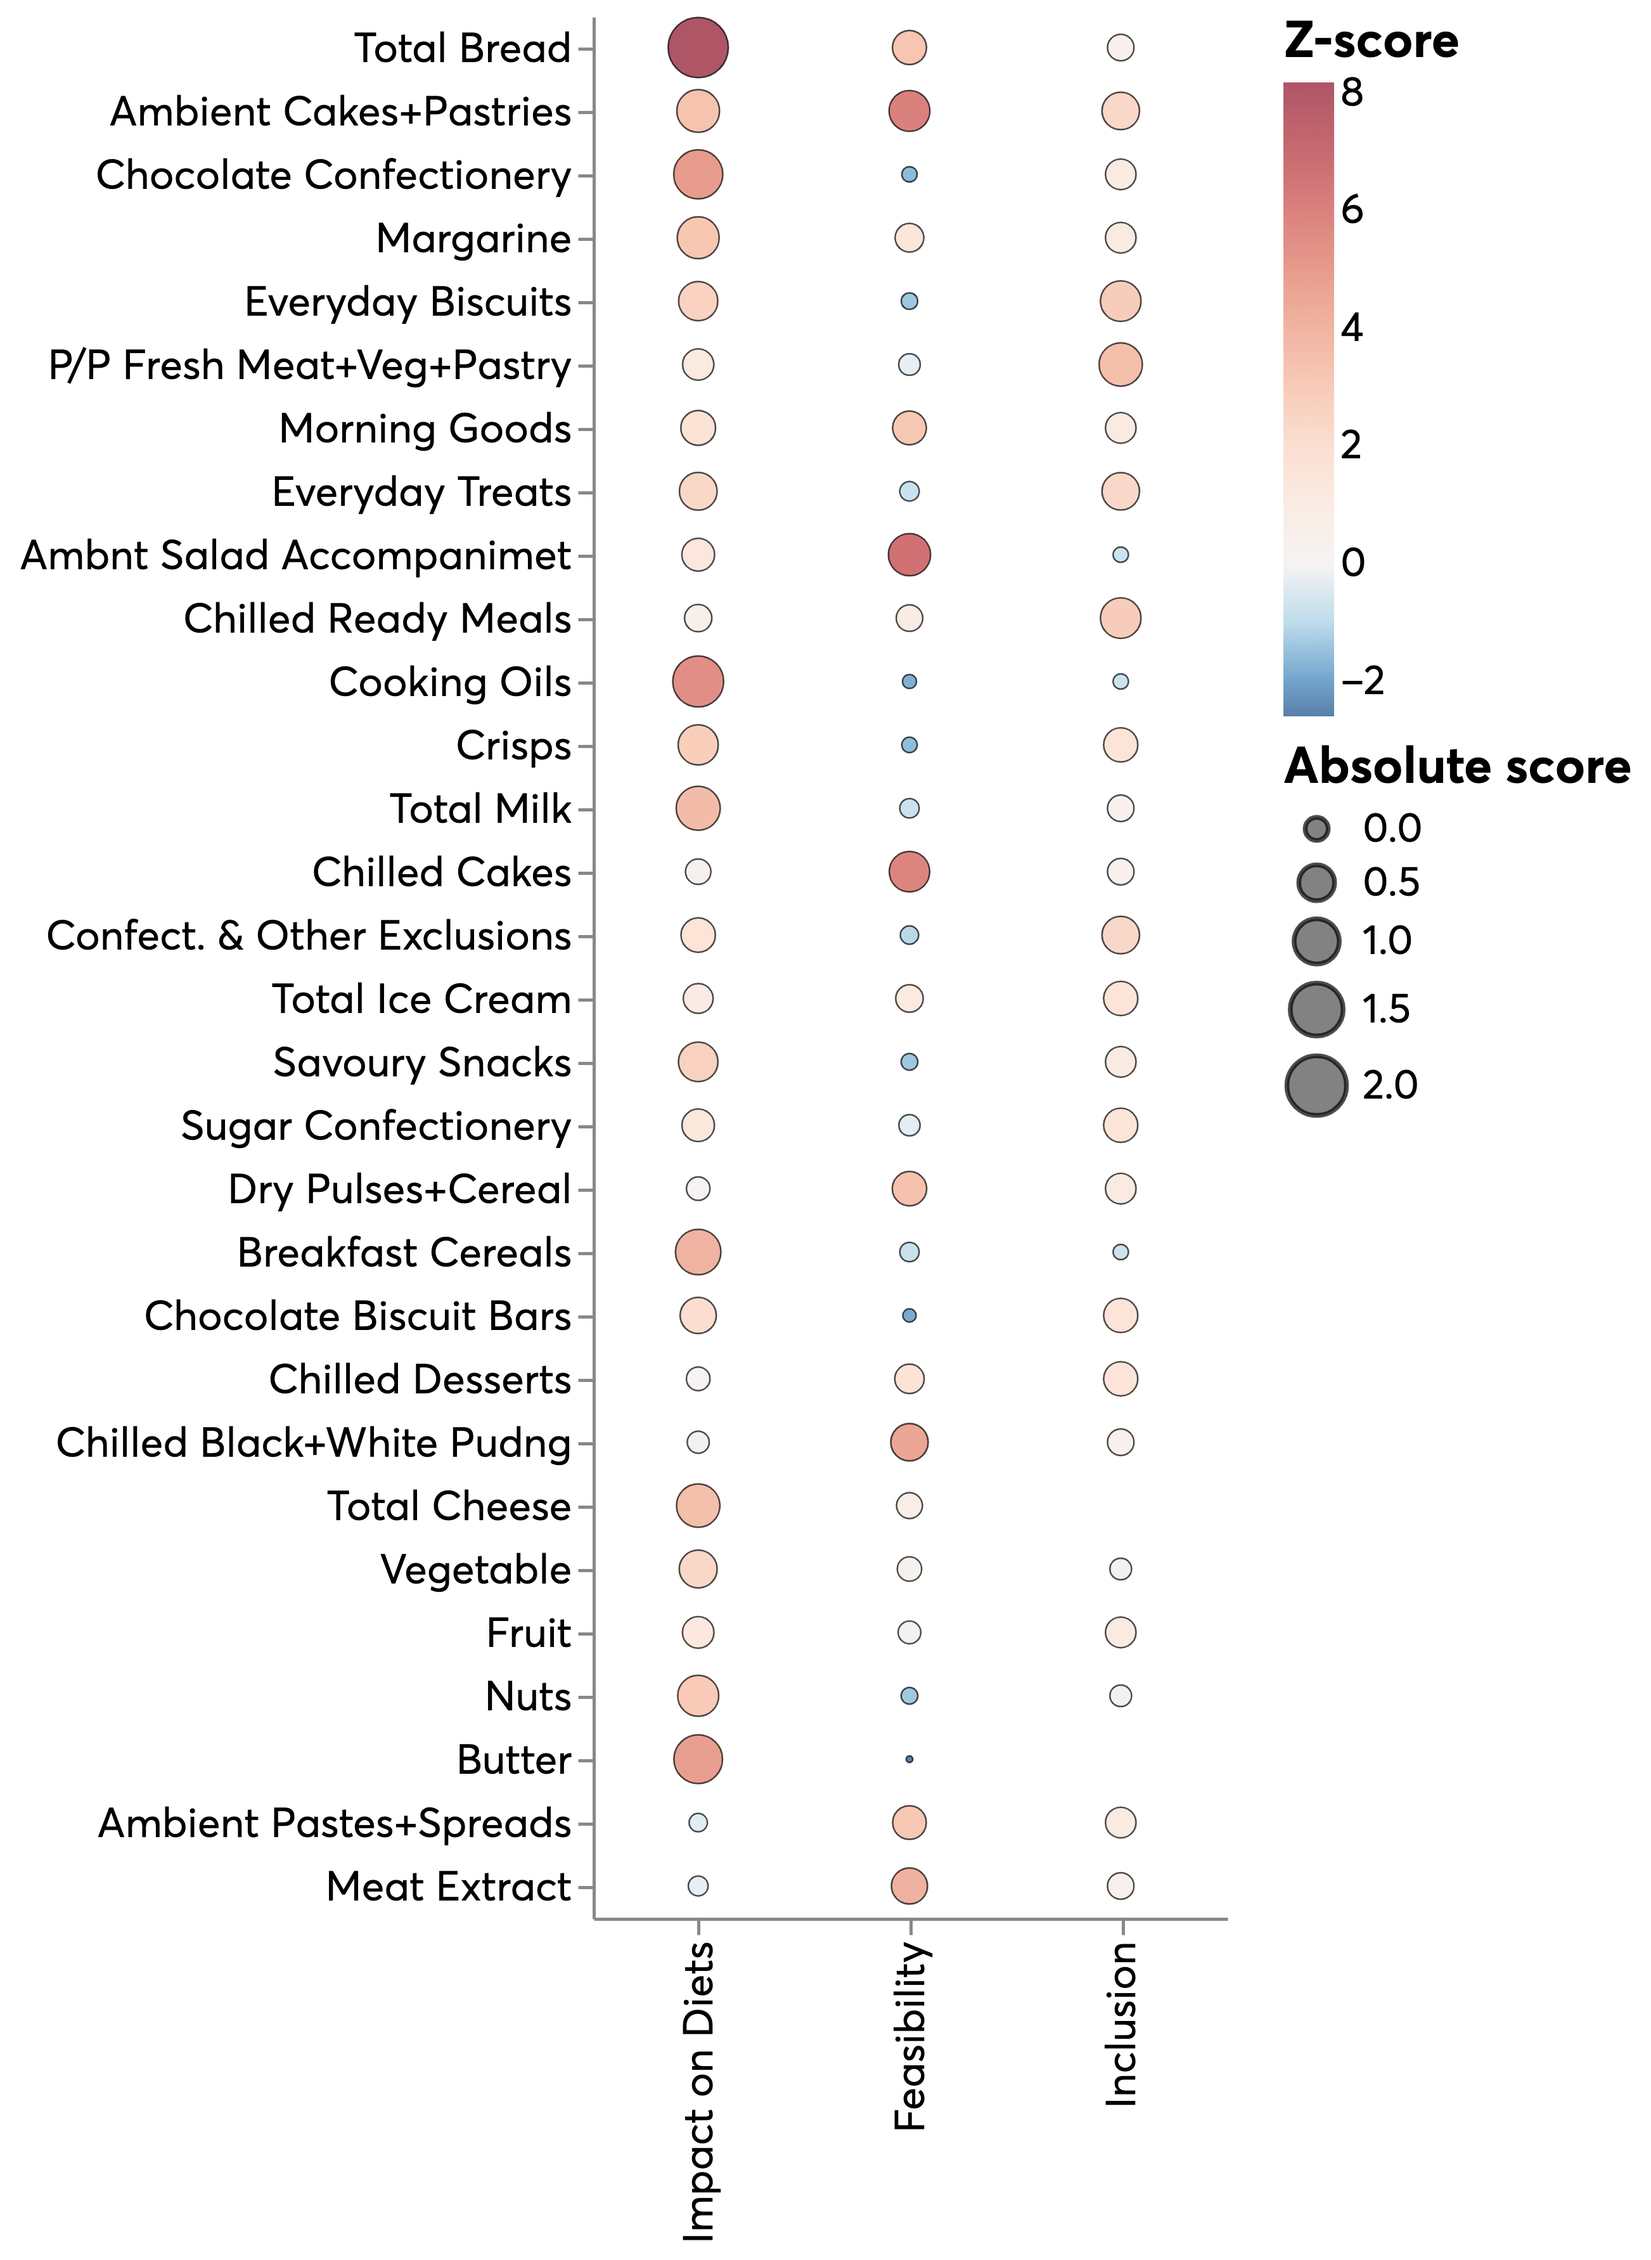
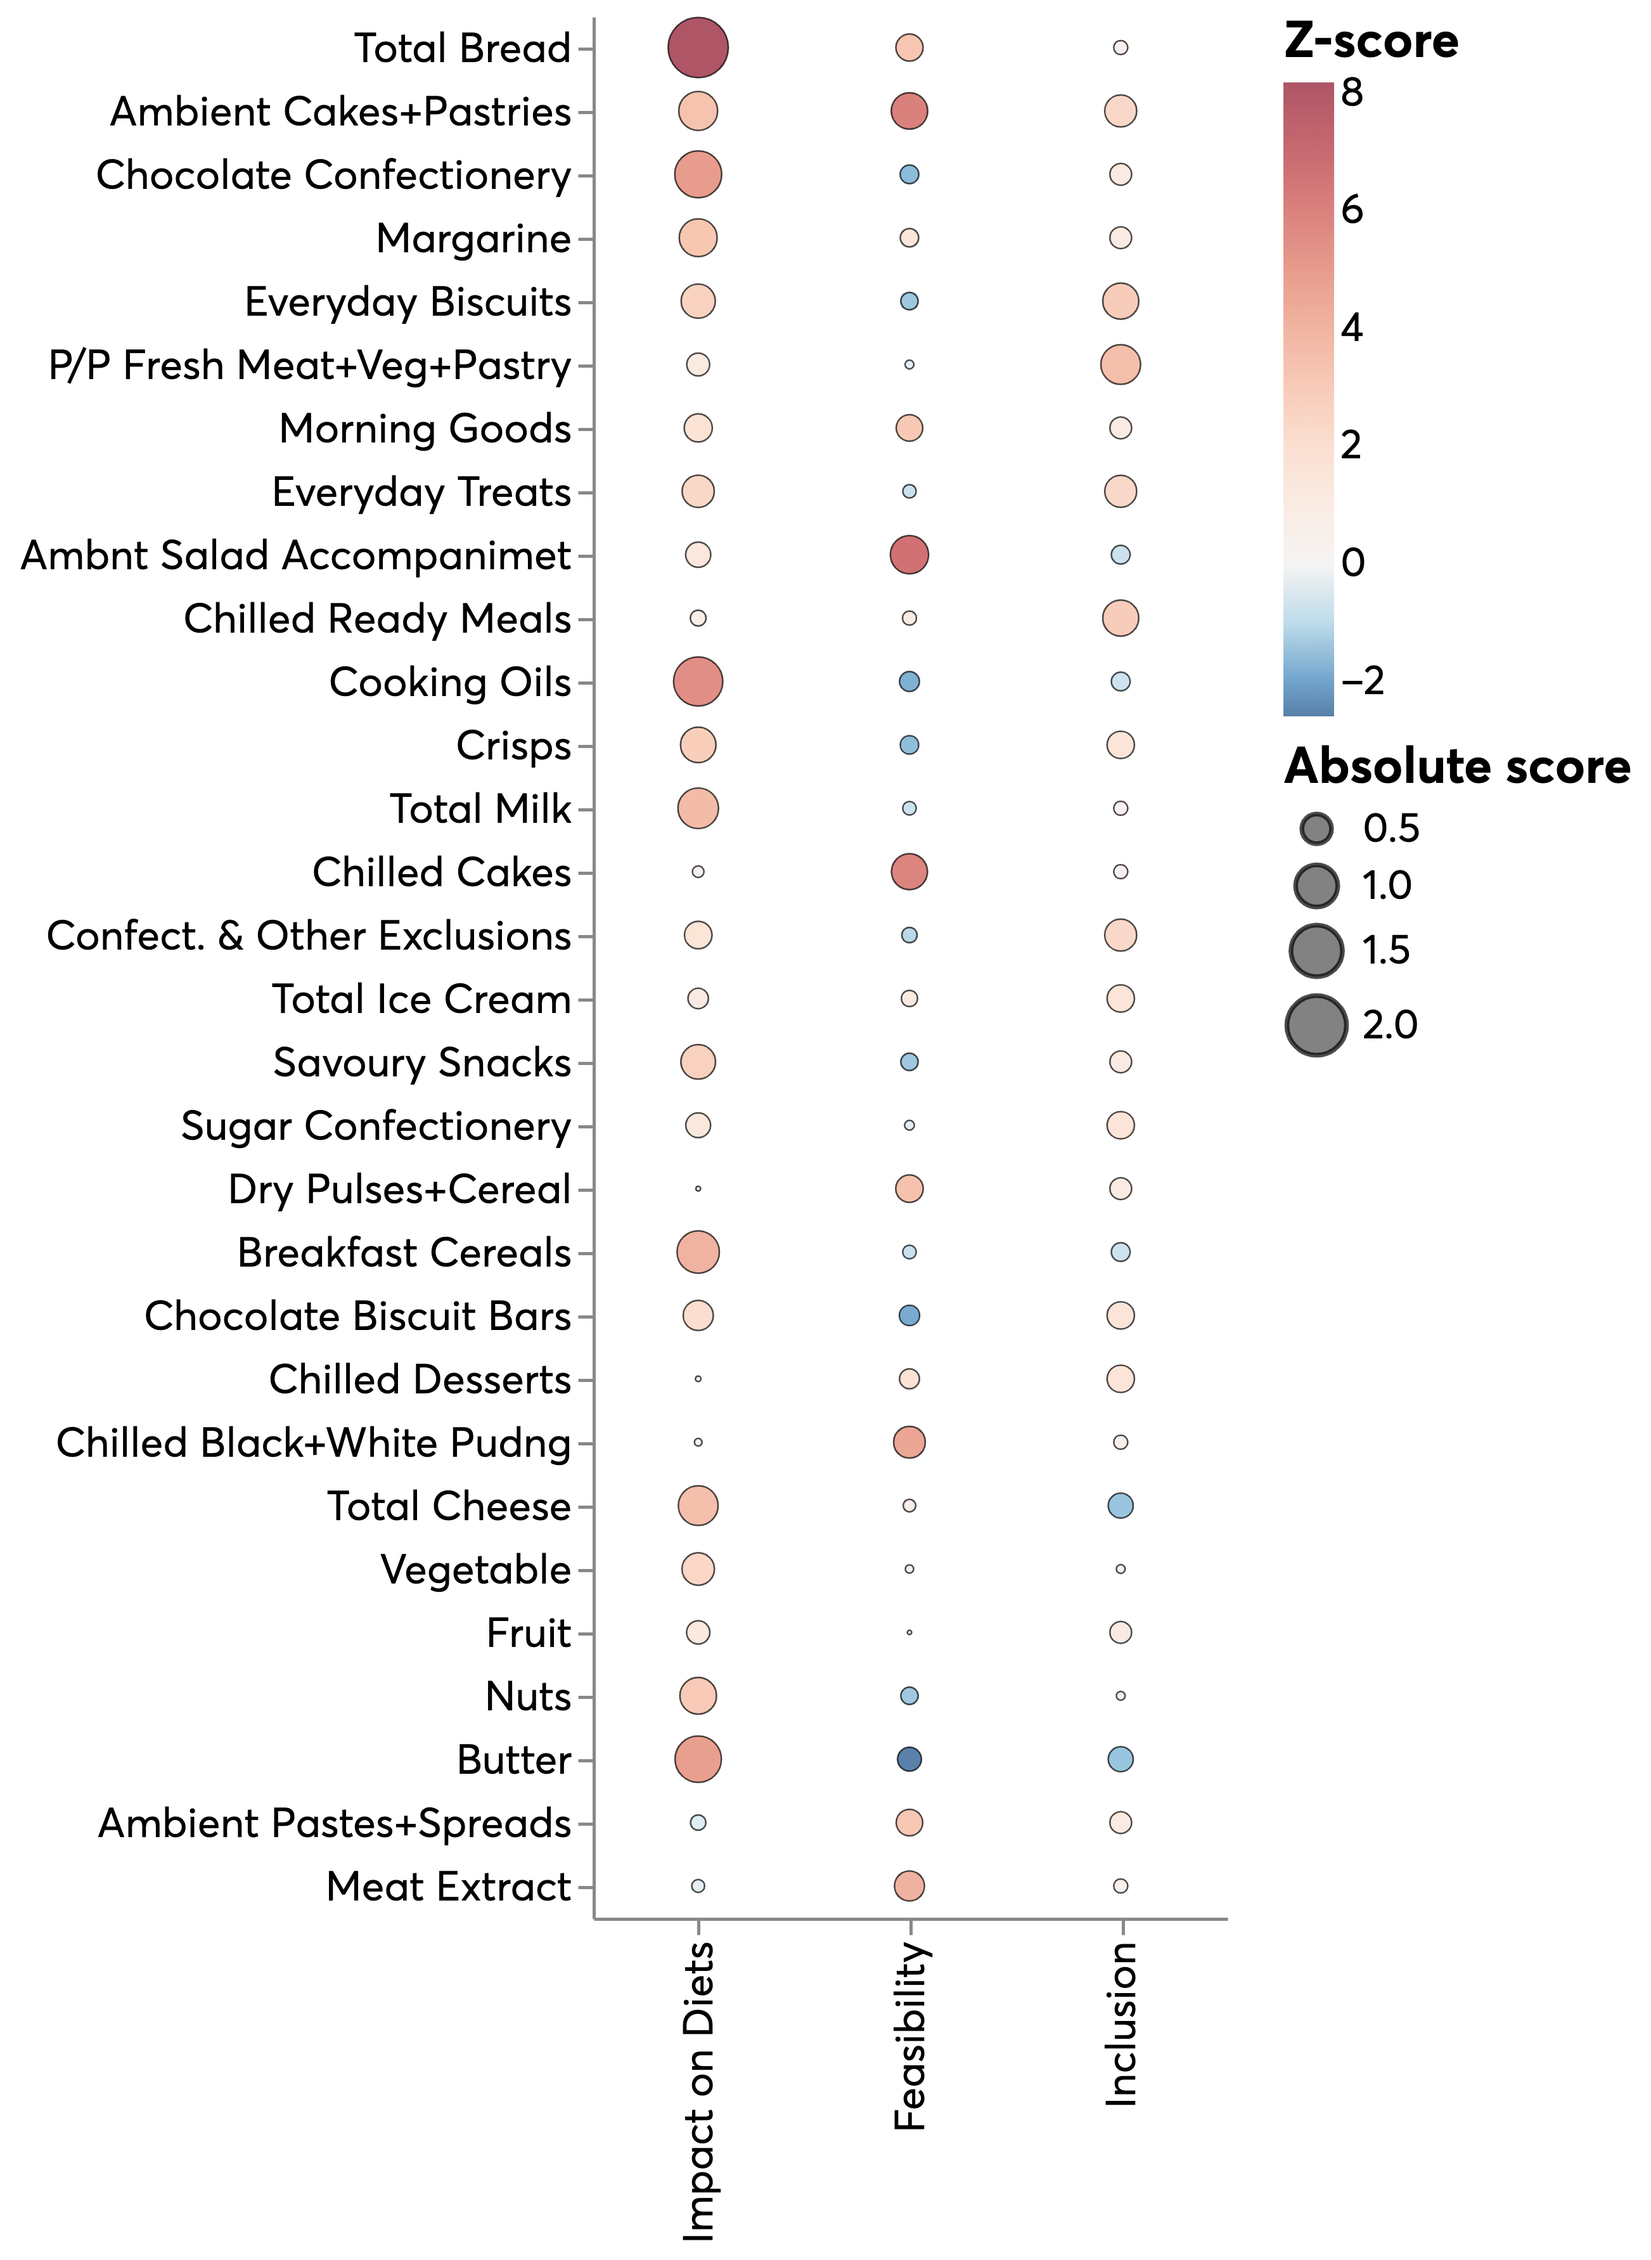
updating bubble chart to correct variable

diff --git a/ahl_food_reformulation/analysis/decision_table_analysis/make_table_analysis.py b/ahl_food_reformulation/analysis/decision_table_analysis/make_table_analysis.py
@@ -200,8 +200,8 @@ def make_indicator_bubblechart(
             scale=alt.Scale(scheme="redblue", domainMid=0),
             sort="descending",
         ),
-        # size=alt.Size("abs_value", title="Absolute score"),
-        size=alt.Size("cross", title="Absolute score"),
+        size=alt.Size("abs_value", title="Absolute score"),
+        # size=alt.Size("cross", title="Absolute score"),
     )
 
     return heatmap
